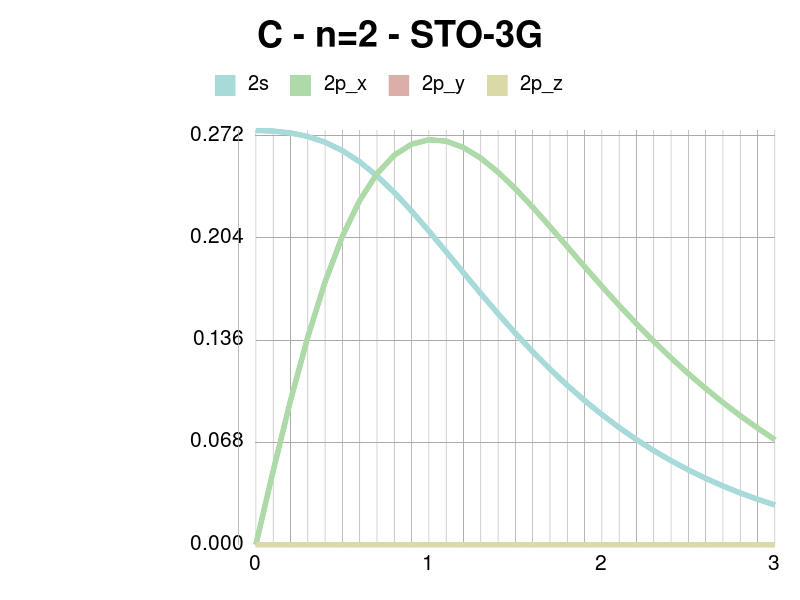
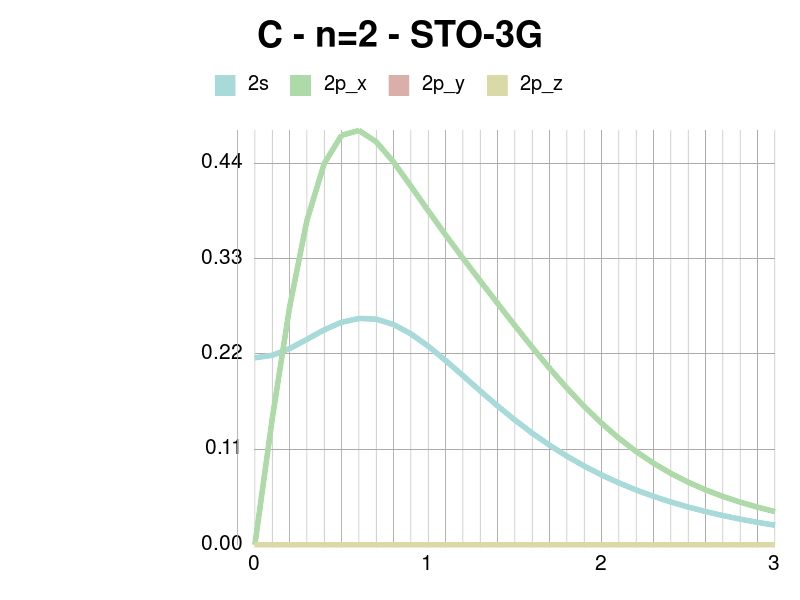
add console system for better UX

diff --git a/sources.rb b/sources.rb
@@ -1,0 +1,86 @@
+# sources.rb
+# 
+# Requires all files and gems needed, sets up basis functions
+
+require_relative 'basis_functions/gaussian_primitive'
+require_relative 'basis_functions/basis_function'
+require_relative 'basis_functions/atomic_orbital'
+
+require_relative 'model/ang_moment'
+require_relative 'model/basis_set_row'
+require_relative 'model/basis_set_partial'
+require_relative 'model/basis_set'
+require_relative 'model/position'
+
+require_relative 'controller/basis_set_partial_controller'
+require_relative 'controller/basis_set_controller'
+
+require_relative 'view/wavefunction_plot'
+require_relative 'view/table_lookup'
+
+require_relative 'CLI/command'
+require_relative 'CLI/console'
+require_relative 'CLI/interpreter'
+
+require 'gruff'
+require 'yaml'
+require 'highline'
+
+# DEFAULT NORMALIZATION SETUP
+#
+GaussianPrimitive.normalize = true
+BasisFunction.normalize = false
+AtomicOrbital.normalize = true
+
+# INTERPRETER/CONSOLE SETUP
+#
+interpreter = Interpreter.new
+Console.instance.interpreter = interpreter
+
+interpreter.add_command(:quit) {|c, args| c.close}
+
+interpreter.add_command(:dump) {|c, args| c.dump}
+
+interpreter.add_command(:load) do |c, args|
+  full_name = "#{args[:name]}_#{args[:element]}"
+  raw_basis_set = File.open("resources/basis_sets/#{full_name}.yaml").read
+  components = YAML.load(raw_basis_set)
+  
+  c.attach(:basis_set, BasisSet.new(args[:name], components))
+end
+
+interpreter.add_command(:pretty_print) do |c, args|
+  basis_set = c.memory[:basis_set]
+  c.log("Basis set #{basis_set.name}: #{basis_set.contraction}.")
+  c.log(c.memory[:basis_set].gaussian94_format)
+end
+
+interpreter.add_command(:normalize) do |c, args|
+  normalize_primitives = args[:primitives] == nil ? true : args[:primitives]
+  normalize_functions = args[:functions] == nil ? false : args[:functions]
+  normalize_orbitals = args[:orbitals] == nil ? false : args[:orbitals]
+  
+  GaussianPrimitive.normalize = normalize_primitives
+  BasisFunction.normalize = normalize_functions
+  AtomicOrbital.normalize = normalize_orbitals
+  
+  c.log("Updated normalization settings.")
+end
+
+interpreter.add_command(:configure) do |c, args|
+  basis_set = c.memory[:basis_set]
+  c.attach(:basis_set_controller, BasisSetController.new(basis_set))
+end
+
+interpreter.add_command(:write_graphs) do |c, args|
+  basis_set = c.memory[:basis_set]
+  controller = c.memory[:basis_set_controller]
+  controller.write_graphs(basis_set.name, "resources/graphs")
+  
+  c.log("Output graphs to resources/graphs")
+end
+
+interpreter.add_command(:load_table) do |c, args|
+  controller = c.memory[:basis_set_controller]
+  controller.load_table(args[:orbital])
+end

diff --git a/basis_functions/gaussian_primitive.rb b/basis_functions/gaussian_primitive.rb
@@ -23,13 +23,9 @@ class GaussianPrimitive
   # The normalization part for the wavefunction, provided
   #   angular momentum. See equation (17).
   def n_constant(ang_moment)
-    l = ang_moment.l
-    m = ang_moment.m
-    n = ang_moment.n
-    
     pi_part  = (2.0 / Math::PI)**0.75
-    num_part = 2.0**(l+m+n) * @alpha**((2.0*(l+m+n) + 3.0) / 4.0)
-    den_part = semifact(l) * semifact(m) * semifact(n)
+    num_part = 2.0**(ang_moment.quantum_number) * @alpha**((2.0*(ang_moment.quantum_number) + 3.0) / 4.0)
+    den_part = semifact(ang_moment.l) * semifact(ang_moment.m) * semifact(ang_moment.n)
     
     pi_part * num_part / den_part**0.5
   end
@@ -39,15 +35,12 @@ class GaussianPrimitive
   # Returns a block with a position parameter.
   # Copies many properties to avoid scoping issues.
   def wavefunction(ang_moment)
-    l = ang_moment.l
-    m = ang_moment.m
-    n = ang_moment.n
+    ang_moment_dup = ang_moment
     alpha = @alpha
     normalization = @@normalize ? n_constant(ang_moment) : 1
     
     lambda do |pos|
-      ang_moment_part = pos.x**l * pos.y**m * pos.z**n
-      ang_moment_part * normalization * exp(-1.0 * alpha * pos.r**2.0)
+      normalization * ang_moment_dup.contribution(pos) * exp(-1.0 * alpha * pos.r**2.0)
     end
   end
   

diff --git a/view/table_lookup.rb b/view/table_lookup.rb
@@ -4,17 +4,14 @@
 
 class TableLookup
   
-  # Properties user_quit, tables, header
-  attr_reader :user_quit
+  # Properties tables, header
   attr_accessor :tables, :header
   
   # Initializer
-  # Assigns header, sets tables to an empty hash, and sets
-  #   user_quit to false.
+  # Assigns header, sets tables to an empty hash.
   def initialize(header)
     @tables = {}
     @header = header
-    @user_quit = false
   end
   
   # Bracket notation to set a value for a key in the tables hash
@@ -28,20 +25,10 @@ class TableLookup
     @tables[lookup]
   end
   
-  # Prompts the user to enter a lookup key using the prompt
-  #   parameter, then formats and prints the universal header,
-  #   followed by the entire table queried.
-  # If the user enters "quit" instead of a valid query, the
-  #   method exits and user_quit is set to true.
-  def load_table(prompt)
-    cli = HighLine.new
-    lookup = cli.ask prompt
+  # Formats and prints the universal header, followed by the
+  #   entire table queried.
+  def load_table(lookup)
     table = @tables[lookup]
-    
-    if lookup == "quit"
-      @user_quit = true
-      return
-    end
     
     puts header.join("\t\t")
     

diff --git a/CLI/interpreter.rb b/CLI/interpreter.rb
@@ -1,0 +1,38 @@
+class Interpreter
+  attr_reader :commands
+  
+  def initialize
+    @commands = []
+  end
+  
+  def add_command(key, &block)
+    @commands << Command.new(key, &block)
+  end
+  
+  def execute(console, line) # -> "load_basis_set basis_set=STO-3G element=H"
+    parts = line.split(' ') # ["load_basis_set", "basis_set=STO-3G", "element=H"]
+    
+    command_key = parts[0].to_sym # :load_basis_set
+    command = @commands.find {|c| c.key == command_key}
+    
+    arg_formats = parts.reject.with_index {|p, index| index == 0} # ["basis_set=STO-3G", "element=H"]
+    command.execute(console, arguments_with(arg_formats))
+  end
+  
+  private
+  
+  def parse(format)
+    if format == "true"
+      true
+    elsif format == "false"
+      false
+    else
+      format
+    end
+  end
+  
+  def arguments_with(arg_formats) # -> ["basis_set=STO-3G", "element=H"]
+    hash_array = arg_formats.map{|arg| arg.split('=')} # [["basis_set", "STO-3G"], ["element", "H"]] 
+    hash_array.reduce({}) {|memo, acc| memo[acc[0].to_sym] = parse(acc[1]); memo} # {:basis_set => "STO-3G", :element => "H"} ->
+  end
+end

diff --git a/model/basis_set.rb b/model/basis_set.rb
@@ -4,10 +4,11 @@
 
 class BasisSet
   
-  # Properties partials, element
+  # Properties name, partials, element
+  # name is simply the name of the basis set, i. e. "6-311G"
   # element is the symbol for an element on the Periodic Table
   # partials is a list of BasisSetPartial instances
-  attr_accessor :partials, :element
+  attr_accessor :name, :partials, :element
   
   # Constant listing orbital characters in order from smallest
   #   to largest angular momentum
@@ -17,7 +18,8 @@ class BasisSet
   # Sets element to first component, and maps following components
   #   to BasisSetPartial elements, which are then added to the
   #   partials array.
-  def initialize(components=[])
+  def initialize(name, components=[])
+    @name = name
     @element = components[0]
     partial_components = components.reject.with_index{|c, index| index == 0}
     @partials = partial_components.map {|component| BasisSetPartial.new(component)}

diff --git a/CLI/console.rb b/CLI/console.rb
@@ -1,0 +1,47 @@
+require 'singleton'
+
+class Console
+  include Singleton
+  
+  attr_accessor :interpreter
+  attr_reader :client, :memory
+  
+  def initialize
+    @client = HighLine.new
+    @is_open = true
+    @memory = {}
+  end
+  
+  def attach(key, value)
+    @memory[key] = value
+    log("#{key} -> #{value}")
+  end
+  
+  def dump
+    @memory = nil
+    log("All memory cleared.")
+  end
+  
+  def log(message)
+    puts message
+  end
+  
+  def open
+    log("Opened console.")
+    while @is_open
+      get_line
+    end
+  end
+  
+  def close
+    @is_open = false
+    log("Closed console.")
+  end
+  
+  private
+  
+  def get_line
+    line = @client.ask "RickettsAO: console -> "
+    @interpreter.execute(self, line)
+  end
+end

diff --git a/controller/basis_set_controller.rb b/controller/basis_set_controller.rb
@@ -37,8 +37,8 @@ class BasisSetController
   end
   
   # Load table using table_lookup
-  def load_table
-    @table_lookup.load_table("enter orbital name: ")
+  def load_table(orbital_name)
+    @table_lookup.load_table(orbital_name)
   end
   
   # Write graphs using WavefunctionPlot.
@@ -54,12 +54,6 @@ class BasisSetController
       
       g.write("#{filepath}/#{basis_set.element}_#{n}_#{basis_set_name}.png")
     end
-  end
-  
-  # Whether the user has quit looking up tables, retrieved from
-  #   table_lookup
-  def user_quit?
-    @table_lookup.user_quit
   end
   
   # String representation of the controller, printing the element

diff --git a/model/ang_moment.rb b/model/ang_moment.rb
@@ -20,6 +20,12 @@ class AngMoment
     @l + @m + @n
   end
   
+  # The Cartesian "contribution" of the angular momentum;
+  #   a function describing shape.
+  def contribution(pos)
+    (pos.x**@l) * (pos.y**@m) * (pos.z**@n)
+  end
+  
   # The character of an orbital with this angular momentum
   # Creates a hash pointing quantum numbers to character symbols,
   #   then returns the value of the hash for this quantum number.

diff --git a/basis_functions/atomic_orbital.rb b/basis_functions/atomic_orbital.rb
@@ -63,6 +63,7 @@ class AtomicOrbital
   def wavefunction
     normalization = @@normalize ? n_constant : 1
     basis_functions = @basis_functions.dup
+    ang_moment_dup = @ang_moment
     
     lambda do |pos|
       normalization * basis_functions.reduce(0.0) do |memo, func|

diff --git a/CLI/command.rb b/CLI/command.rb
@@ -1,0 +1,12 @@
+class Command
+  attr_reader :key
+  
+  def initialize(key, &block)
+    @key = key
+    @action = block
+  end
+  
+  def execute(console, args)
+    @action.call(console, args)
+  end
+end

diff --git a/GTO_AO.rb b/GTO_AO.rb
@@ -1,0 +1,9 @@
+# GTO_AO.rb
+#
+# Run this file FROM THE ROOT DIRECTORY for the full GTO CLI.
+
+# Load all relevant files and setup
+require_relative 'sources'
+
+# Start the CLI
+Console.instance.open
